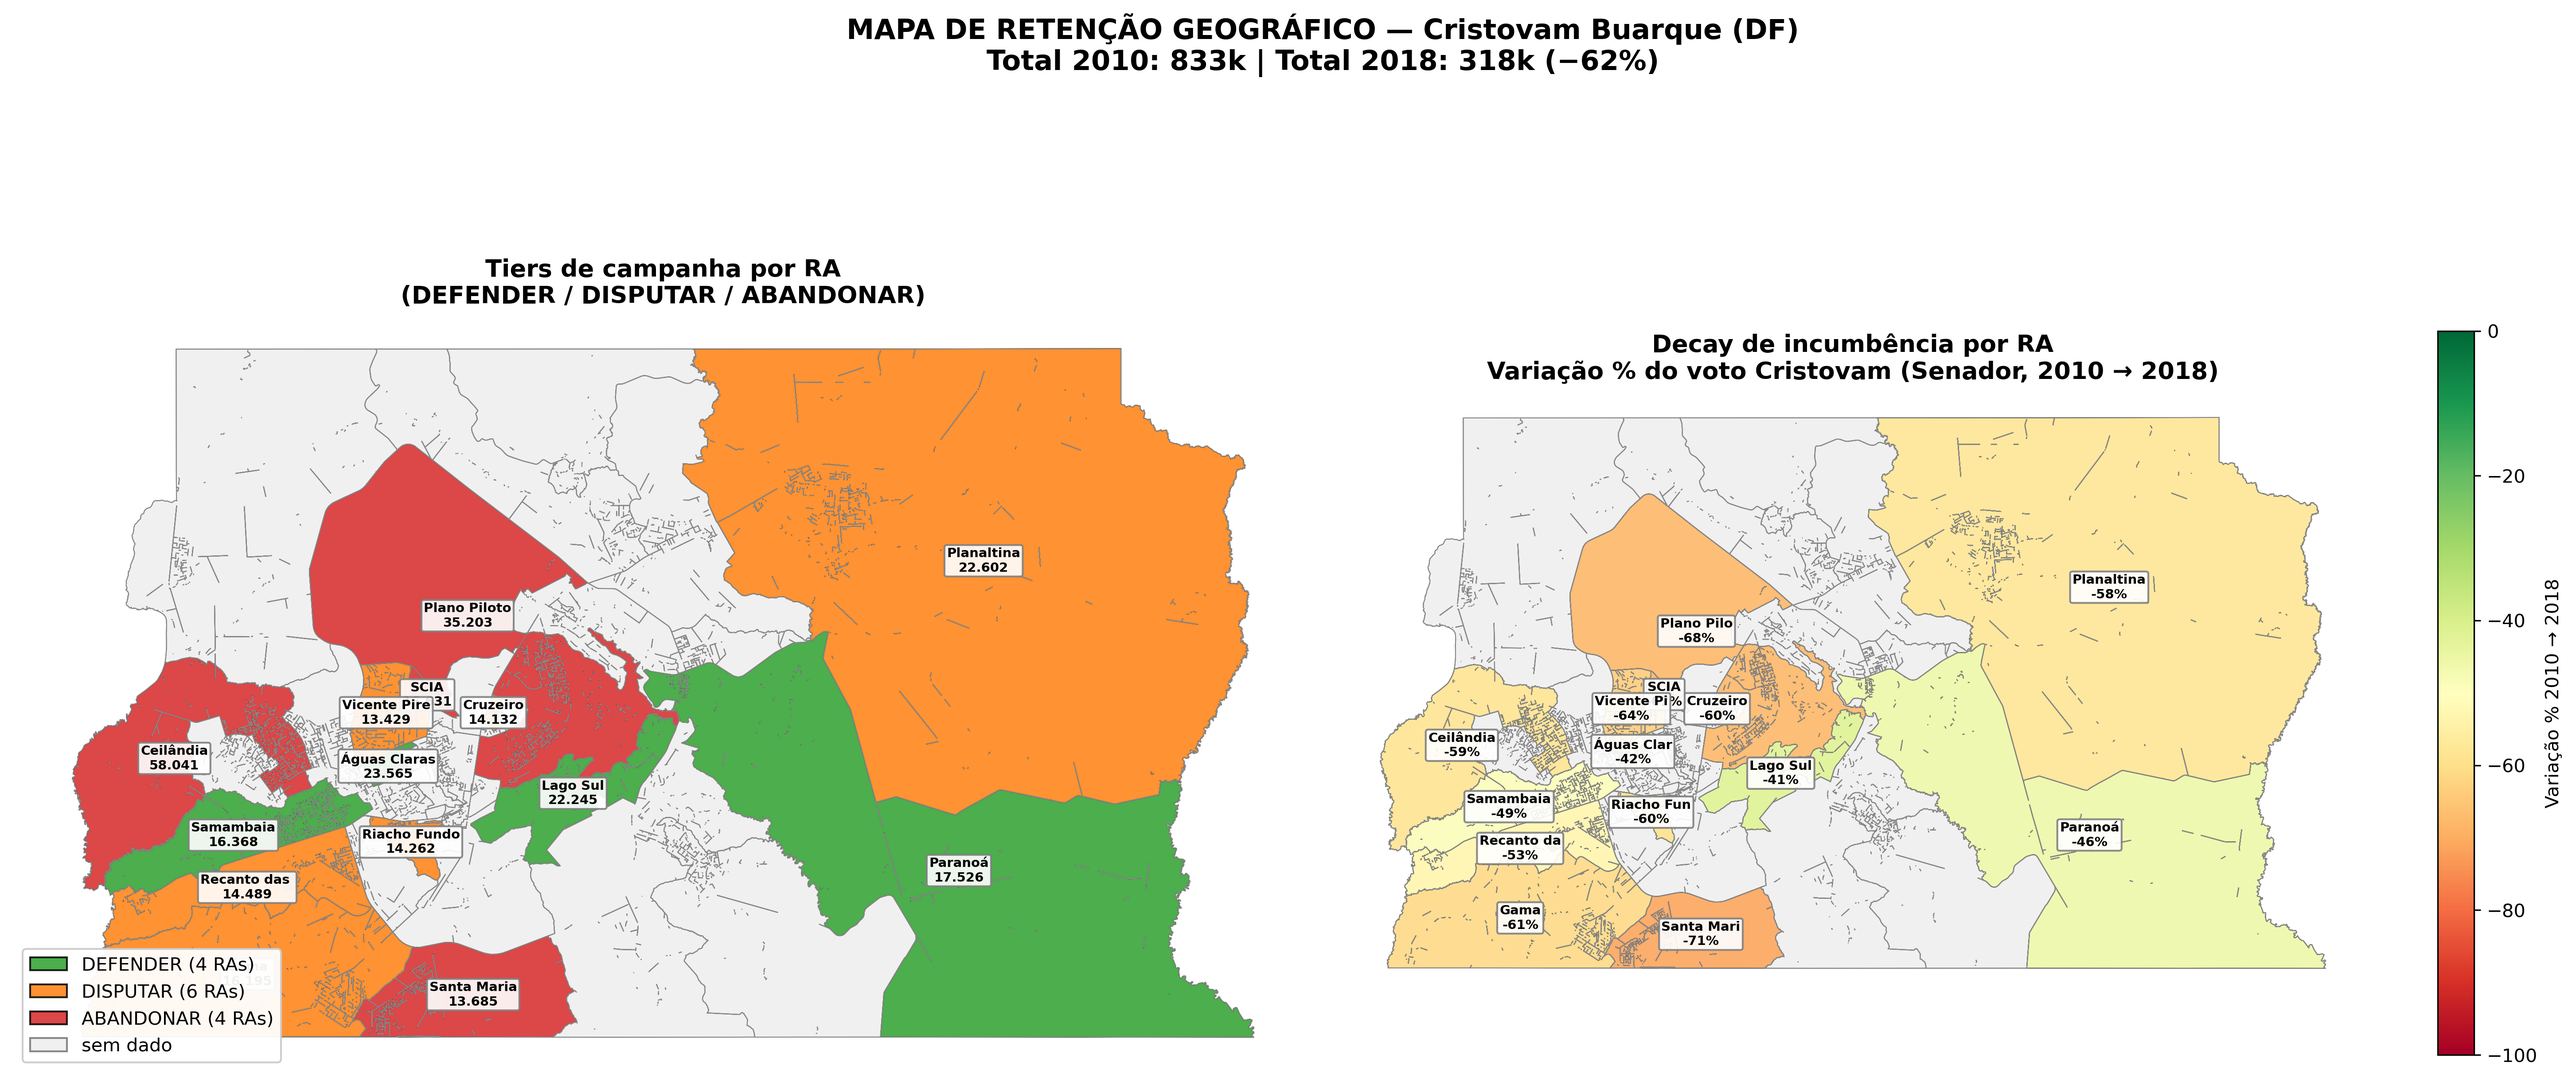
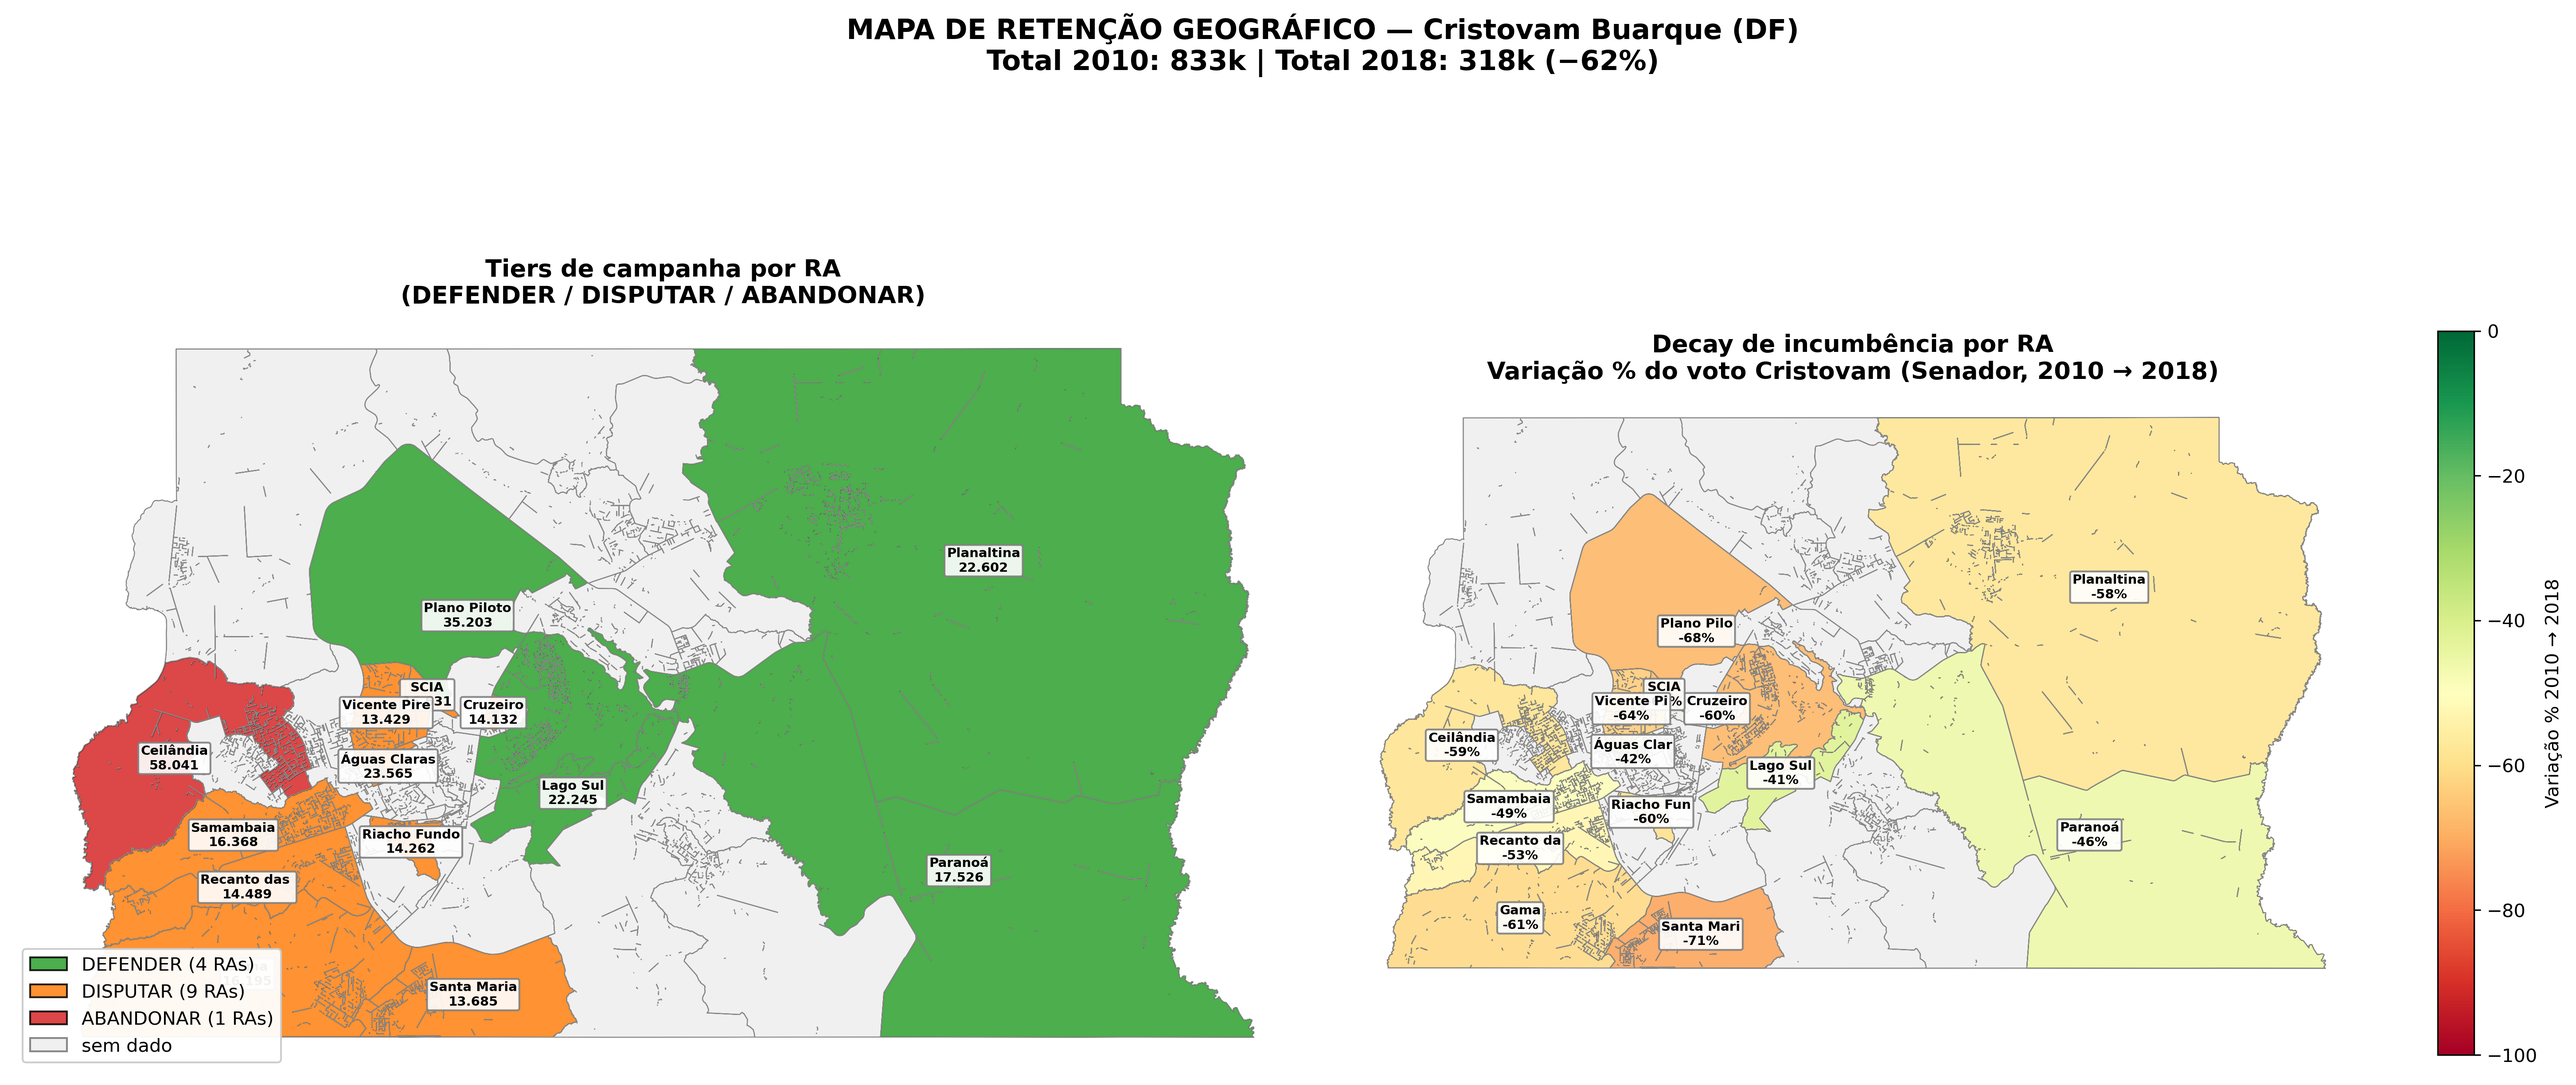
fix(cristovam): tier por massa+share atual, nao por decay %
Critério anterior (var_pct 2010→2018) classificava Plano Piloto
(Z1 Asa Sul, Z14 Asa Norte) como ABANDONAR apesar de ainda
concentrarem ~15-20k votos com share ~14% — provavelmente a base
mais forte residual em 2018. Para estratégia de campanha, importa
onde o candidato AINDA é forte, não onde a queda foi mais dramática.

Novo critério:
- DEFENDER  = votos_2018 >= 15k AND share_2018 >= 12%
- DISPUTAR  = votos_2018 >= 12k AND share_2018 >= 9% (e nao DEFENDER)
- ABANDONAR = resto (4 zonas, incluindo Z7 e Z12 com zero em 2018)

Plano Piloto e Lago Sul agora ficam verdes; Ceilândia e Samambaia
periféricas vermelhas. Match com a hipótese de base = elite educada.

diff --git a/src/casos/cristovam/mapa_retencao_cristovam.py b/src/casos/cristovam/mapa_retencao_cristovam.py
@@ -19,6 +19,12 @@ Análise em dois níveis:
 
 Entregável: tabela de zonas em 3 tiers (defender/disputar/abandonar)
 + mapa por zona da variação 2010→2018 + mapa por seção 2018.
+
+Tiers (critério revisto): força ATUAL — votos_2018 e share_2018.
+DEFENDER = votos >= 15k AND share >= 12%; DISPUTAR = votos >= 12k AND
+share >= 9% (e não DEFENDER); ABANDONAR = resto. O critério anterior
+(baseado em var_pct 2010→2018) classificava Plano Piloto como ABANDONAR
+por causa do tamanho da queda %, apesar dele ainda concentrar a base.
 """
 
 from pathlib import Path
@@ -136,16 +142,20 @@ def main() -> None:
     print(df[["share_2002", "share_2010", "share_2018"]].corr().round(3).to_string())
 
     # ===== 3) Tiers — defender / disputar / abandonar =====
-    # Critério:
-    # - DEFENDER:  alta share_2018 + retenção alta (var_pct > -50%) — base que aguenta
-    # - DISPUTAR:  share_2018 médio + retenção parcial — recuperável
-    # - ABANDONAR: share_2018 baixo + queda profunda (var_pct < -65%) — perdido
+    # Critério (revisado): força ATUAL (massa + share 2018), não decay.
+    # O critério anterior penalizava zonas onde Cristovam perdeu muito em %
+    # mesmo quando ainda tinha base substancial — Plano Piloto (Z1, Z14)
+    # ficava em ABANDONAR apesar de ainda concentrar share elevado.
+    # Para estratégia de campanha, importa onde ele AINDA é forte.
+    # - DEFENDER:  votos_2018 >= 15k E share_2018 >= 12%  (base sólida)
+    # - DISPUTAR:  votos_2018 >= 12k E share_2018 >= 9% (e não DEFENDER)
+    # - ABANDONAR: massa baixa, share baixo, ou zero (Z7, Z12)
     def tier(r):
+        votos = r["crist_2018"] if pd.notna(r["crist_2018"]) else 0
         s = r["share_2018"] if pd.notna(r["share_2018"]) else 0
-        v = r["var_pct_10_18"] if pd.notna(r["var_pct_10_18"]) else -100
-        if s >= 5 and v > -50:
+        if votos >= 15000 and s >= 12:
             return "DEFENDER"
-        if s >= 3 and v > -65:
+        if votos >= 12000 and s >= 9:
             return "DISPUTAR"
         return "ABANDONAR"
 
